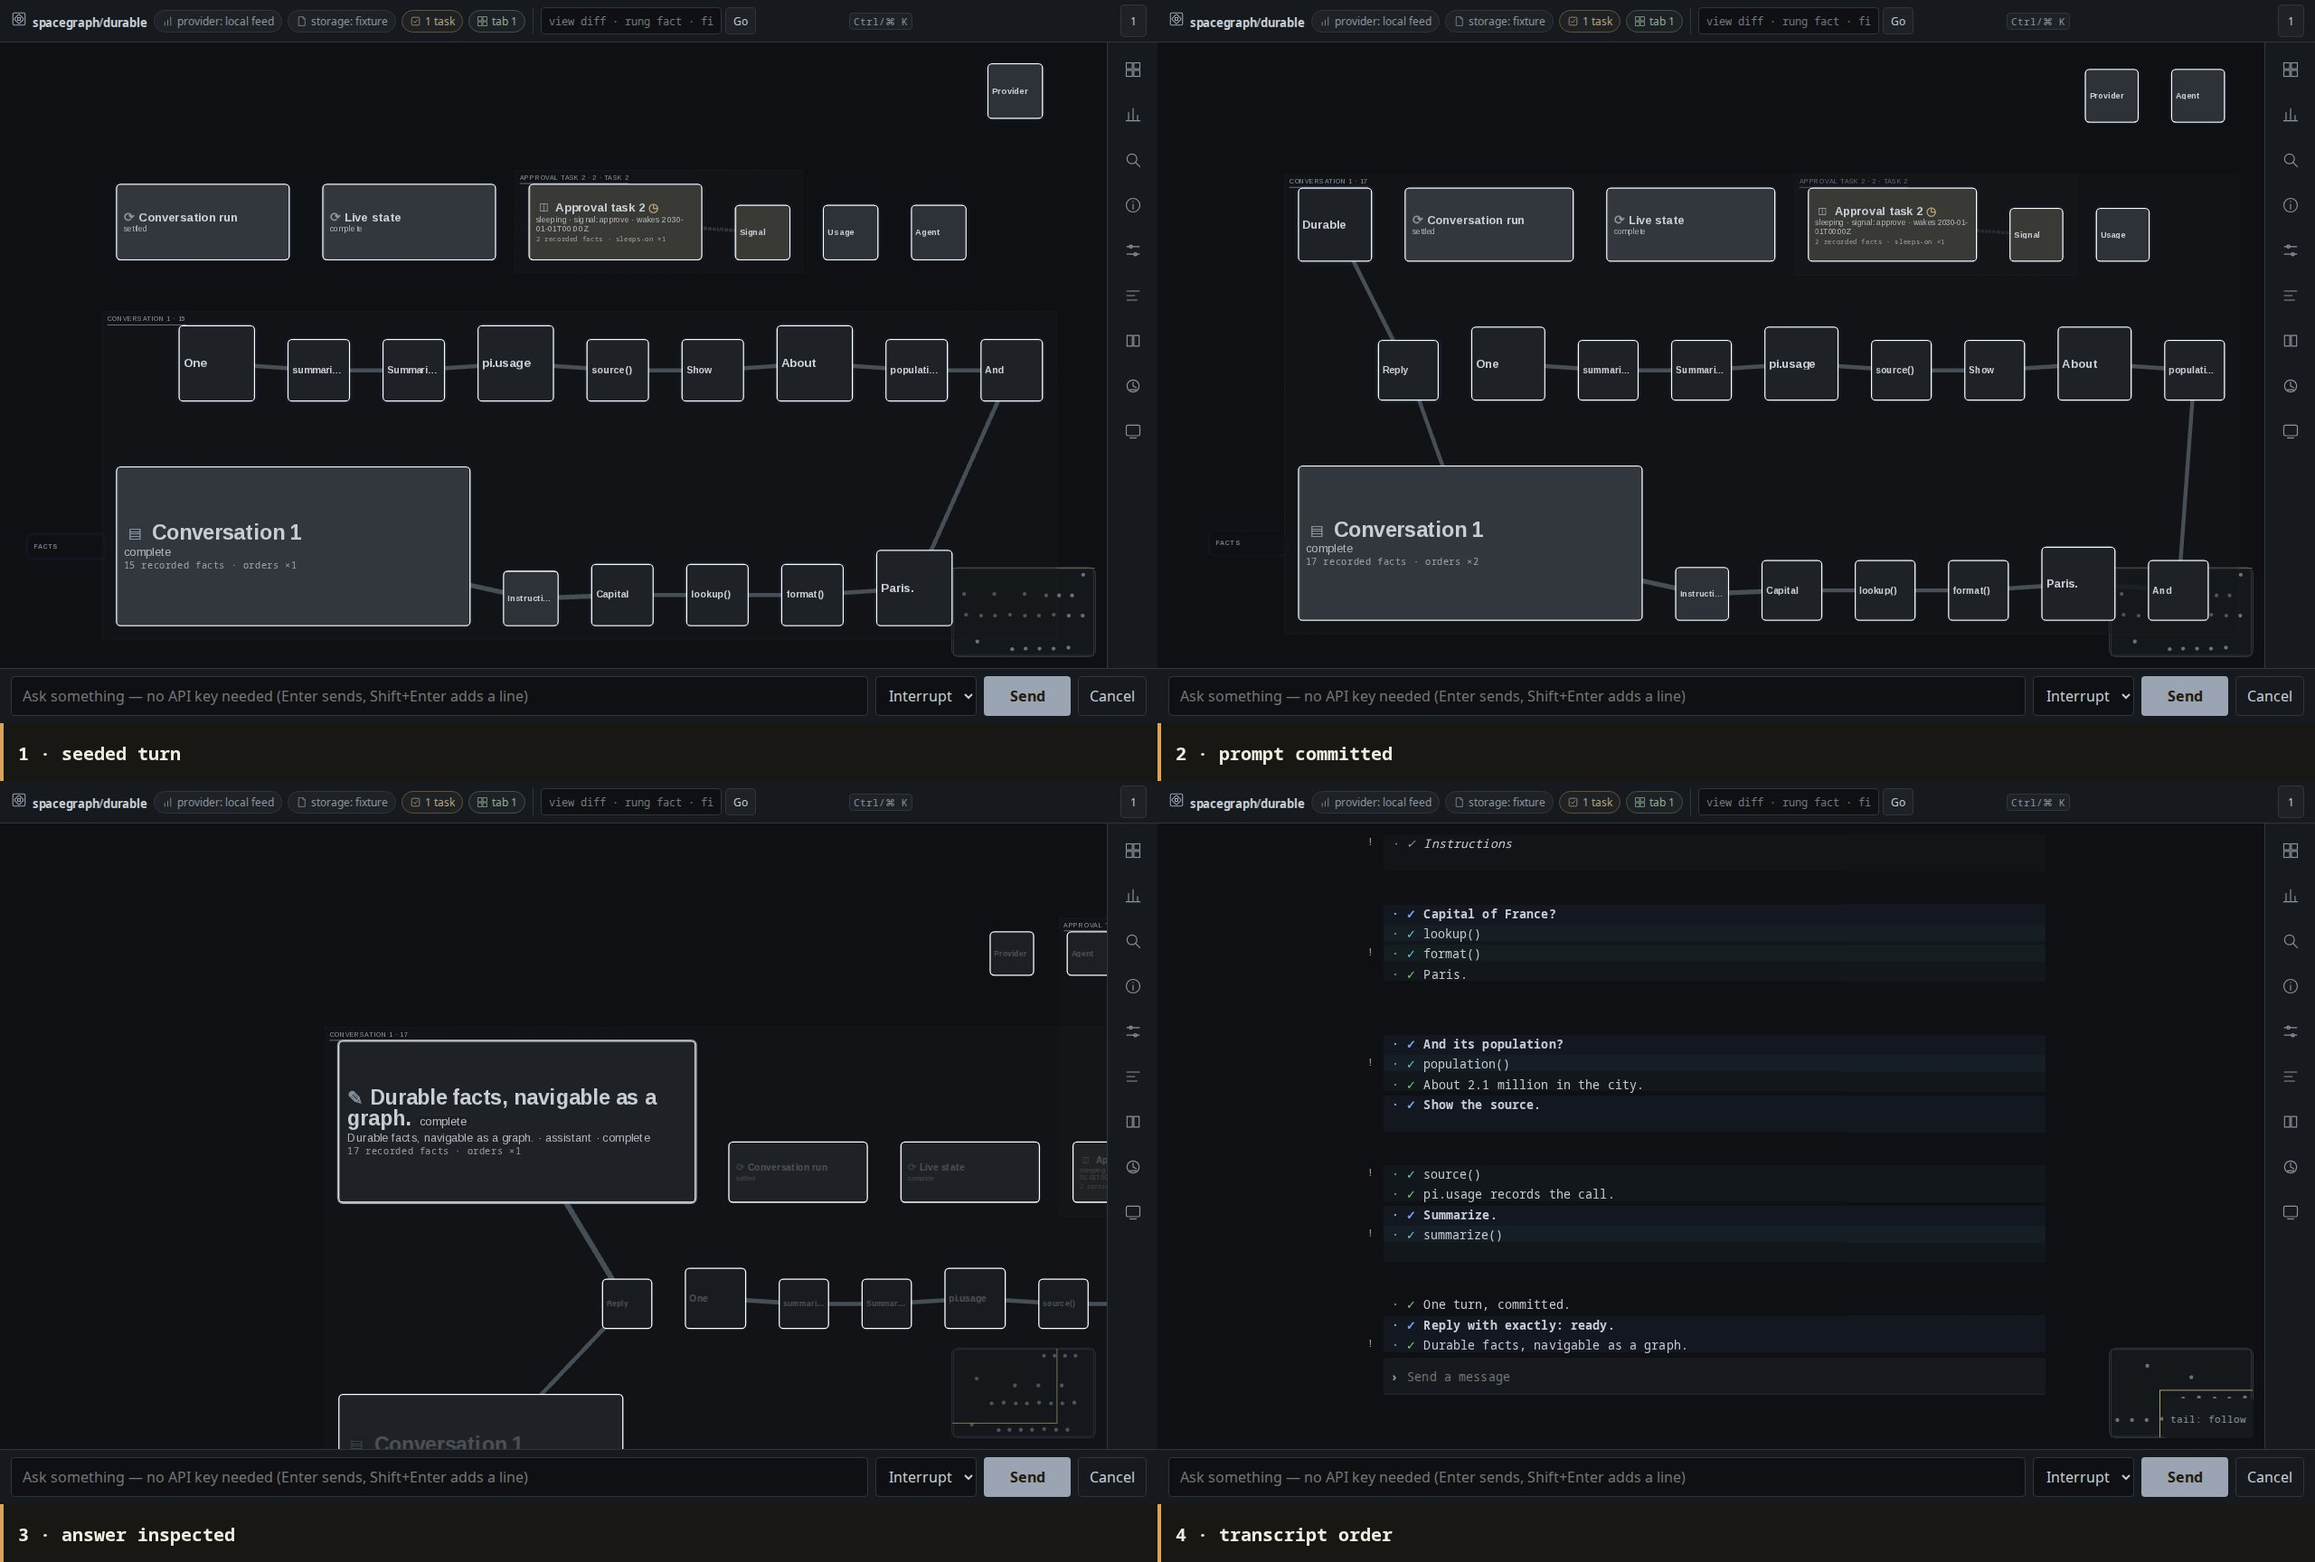
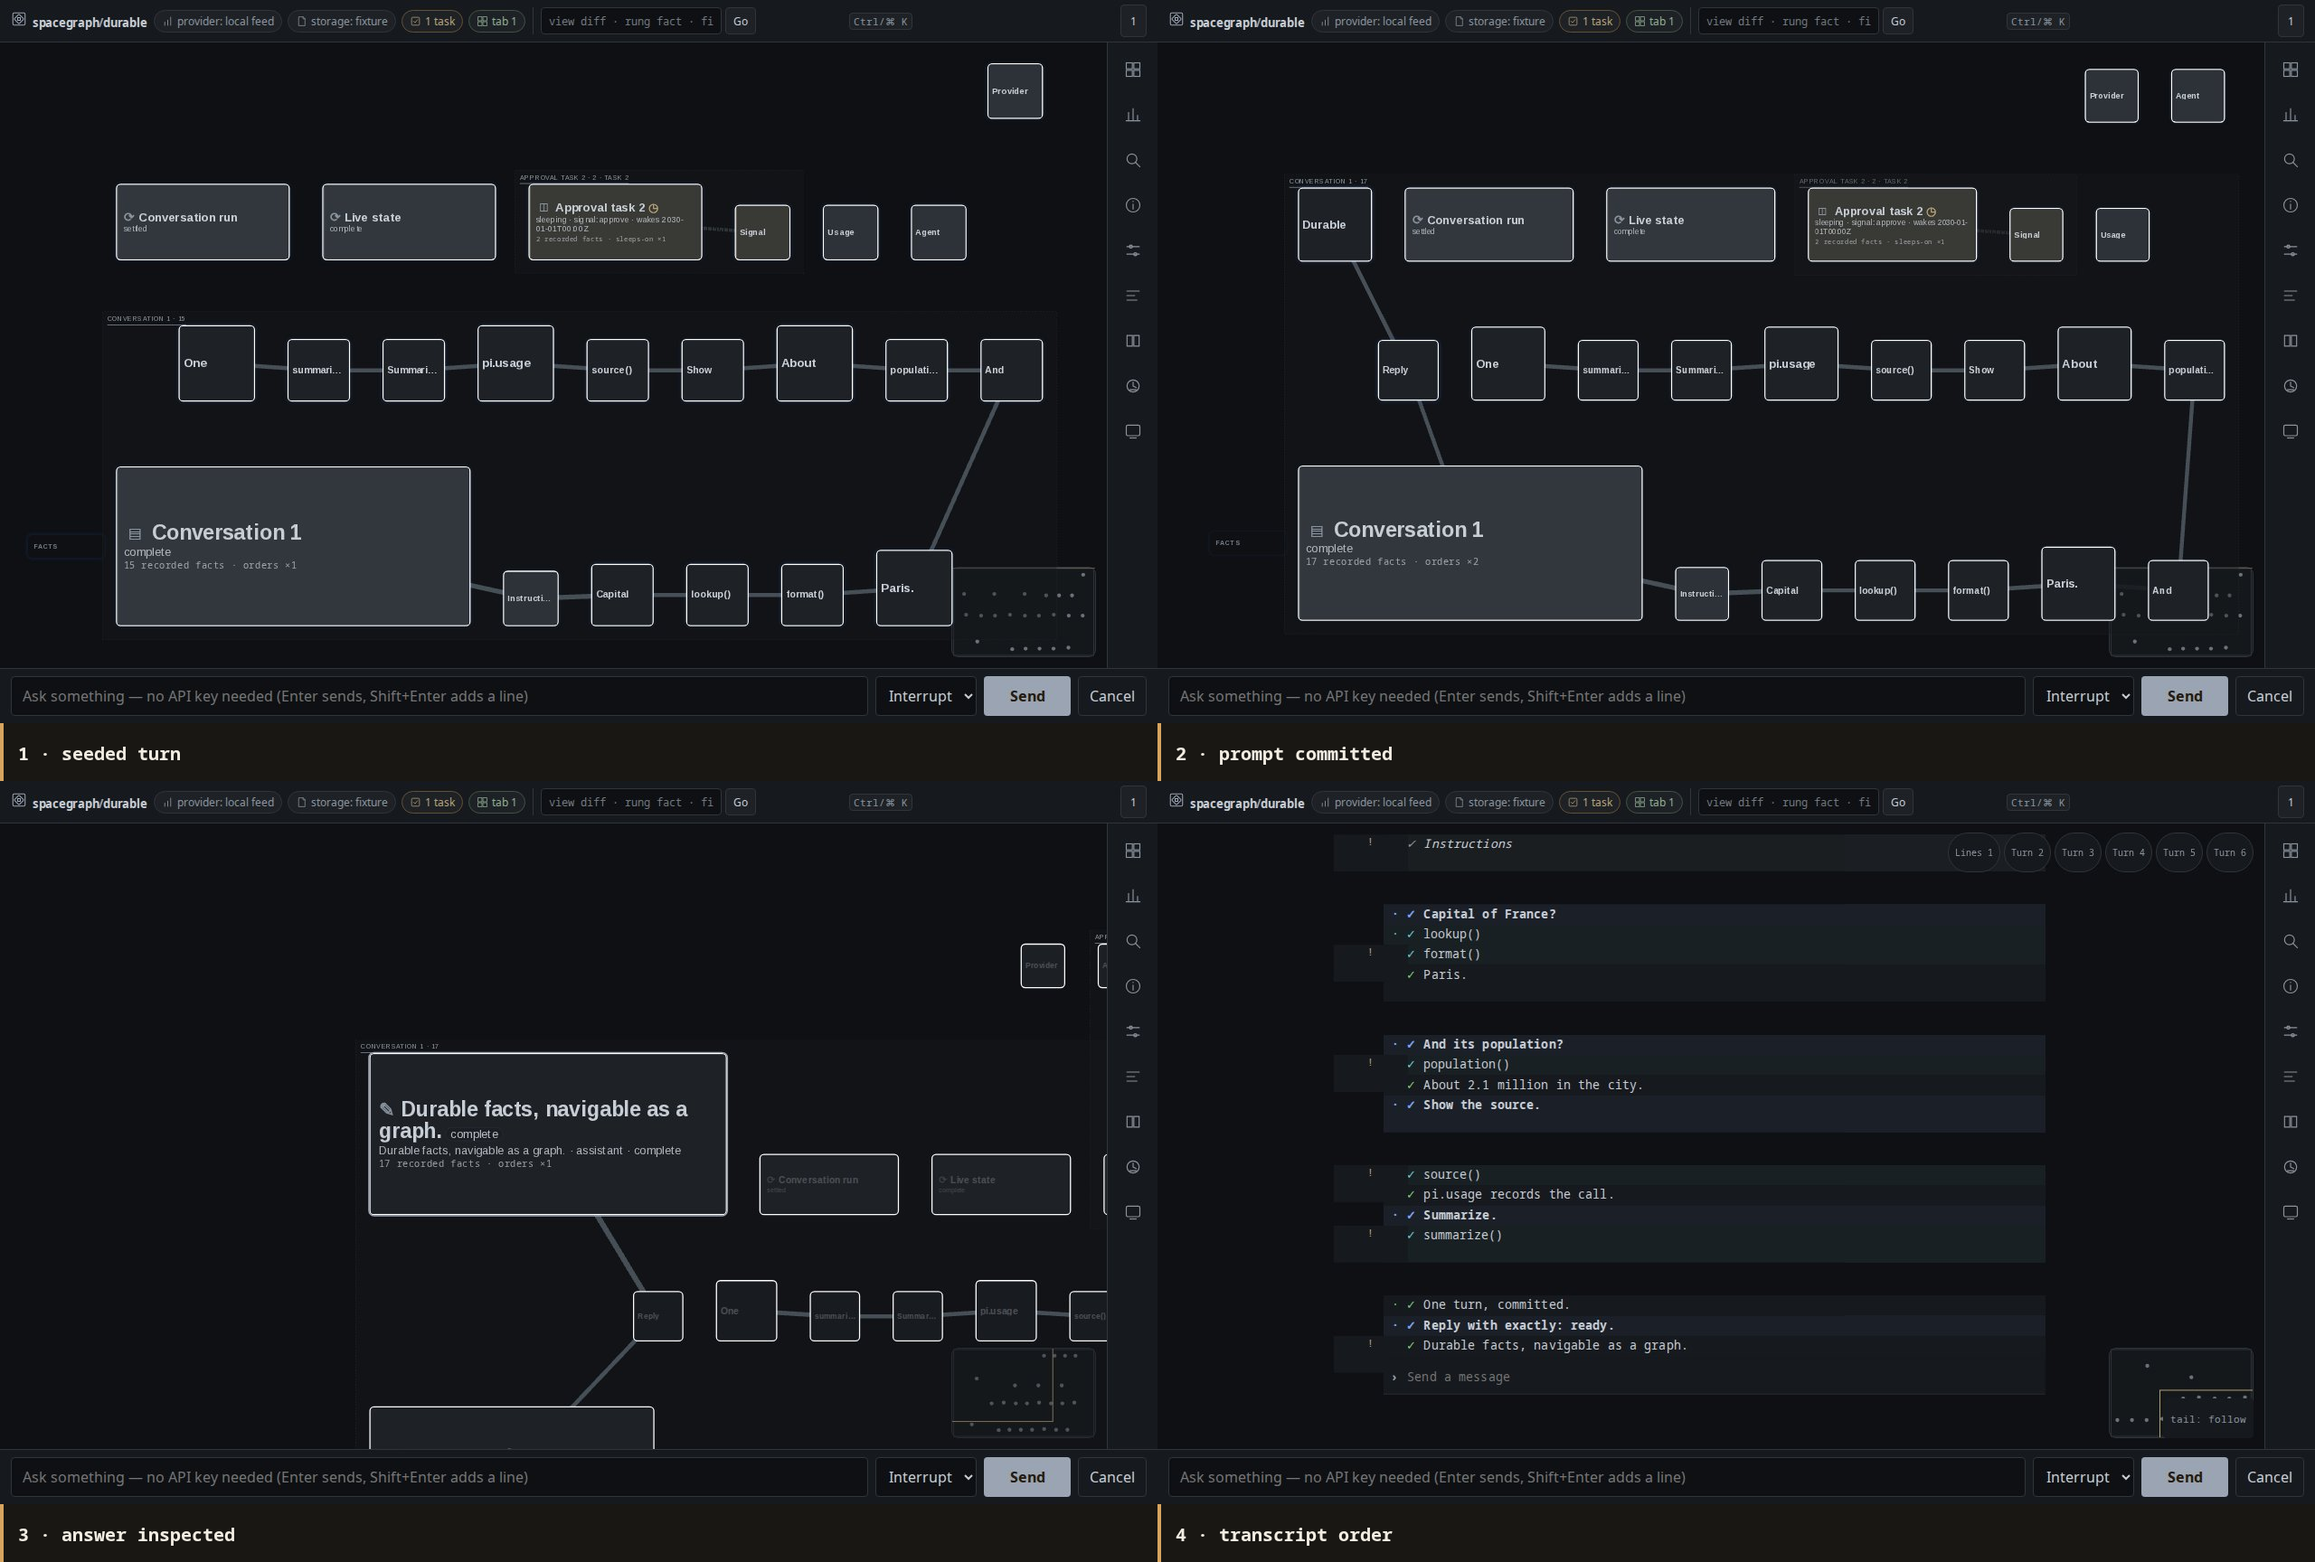
feat(terminal): complete reading and keyboard accessibility parity
Mount the console reading lens with arrow navigation and backlinks, keep full text in the assistive mirror at every fidelity band, and list graph, fidelity and keyboard grammar in help.

Changed region(s): [[0.125, 0.6562, 0.4688, 0.9062], [0.4375, 0.5938, 0.4688, 0.625]]

diff --git a/app/pi-durable/src/host.ts b/app/pi-durable/src/host.ts
@@ -51,7 +51,6 @@ import {
 } from 'spacegraphjs/widgets';
 import {
     mountReading,
-    readingHTML,
     readingOrder,
     type ReadingController,
     type ReadingNode,
@@ -746,6 +745,7 @@ export class DurableHost {
         target: NODES_AREA_DENSITY,
     };
     #readerController: ReadingController | undefined;
+    #consoleReadingController: ReadingController | undefined;
     #terminalController: TerminalController | undefined;
     #terminalCamera: TerminalCameraController | undefined;
     #replay: TerminalReplayHandle | undefined;
@@ -2307,11 +2307,11 @@ export class DurableHost {
     }
 
     consoleHelp(): string {
-        return this.#commands()
+        const commands = this.#commands()
             .list()
             .filter((command) => command.group === 'console' || command.group === 'grammar')
-            .map((command) => `${command.hint ?? `/${command.label}`} — ${command.label}`)
-            .join('\n');
+            .map((command) => `${command.hint ?? `/${command.label}`} — ${command.label}`);
+        return [...commands, 'x — grow a graph from the focused line', 'Escape — collapse graph, detail or reading'].join('\n');
     }
 
     #completeConsole(prefix: string, matches: readonly Command[]): void {
@@ -2663,9 +2663,19 @@ export class DurableHost {
             scope,
         );
         const sections = readingOrder(nodes, []);
-        el('console-reading-body').innerHTML = readingHTML(sections, {
-            title: `Console — ${scope}`,
-        });
+        this.#consoleReadingController?.destroy();
+        this.#consoleReadingController = mountReading(
+            el('console-reading-body'),
+            sections,
+            {
+                title: `Console — ${scope}`,
+                announce: (message) => this.announce(message),
+                onReveal: (id) => {
+                    this.closeConsoleReading();
+                    this.consoleFocus(`line:${id}`);
+                },
+            },
+        );
         el('console-reading').hidden = false;
         this.#openOverlay('reading', el('console-reading'), el<HTMLButtonElement>('console-reading-close'), () =>
             this.closeConsoleReading(),
@@ -2675,6 +2685,8 @@ export class DurableHost {
     }
 
     closeConsoleReading(): void {
+        this.#consoleReadingController?.destroy();
+        this.#consoleReadingController = undefined;
         this.#closeOverlay('reading', el('console-reading'));
     }
 

diff --git a/app/pi-durable/tests/reading-lens.spec.ts b/app/pi-durable/tests/reading-lens.spec.ts
@@ -11,6 +11,37 @@ test('the reading lens opens a safe reading view from the console', async ({ pag
     expect(errors).toEqual([]);
 });
 
+test('console reading sections navigate and reveal their backlinks', async ({ page }) => {
+    const errors = await bootConsole(page);
+    expect(await call<number>(page, 'consoleRead', 'all')).toBeGreaterThan(0);
+    const sections = page.locator('#console-reading-body .reading-section');
+    await expect(sections.first()).toBeVisible();
+    await sections.first().focus();
+    await page.keyboard.press('ArrowDown');
+    await expect(sections.nth(1)).toBeFocused();
+    await sections.nth(1).locator('.reading-backlink').click();
+    await expect(page.locator('#console-reading')).toBeHidden();
+    expect(errors).toEqual([]);
+});
+
+test('the assistive mirror keeps full text at every fidelity band', async ({ page }) => {
+    const errors = await bootConsole(page);
+    for (const band of ['dot', 'glyph', 'card', 'detail']) {
+        await call(page, 'consoleLOD', band);
+        const mirror = await page.locator('#console-a11y [role="listbox"] li').allTextContents();
+        expect(mirror.join(' ')).toContain('Capital of France?');
+    }
+    expect(errors).toEqual([]);
+});
+
+test('help lists graph, fidelity and keyboard grammar', async ({ page }) => {
+    const errors = await bootConsole(page);
+    const help = await call<string>(page, 'consoleHelp');
+    for (const needle of ['/grow', '/embed', '/lod', '/graph', 'x —', 'Escape —'])
+        expect(help).toContain(needle);
+    expect(errors).toEqual([]);
+});
+
 test('profiles replace scattered presentation flags', async ({ page }) => {
     const errors = await bootConsole(page);
     const profiles = await call<readonly { id: string }[]>(page, 'consoleProfiles');

diff --git a/src/terminal.ts b/src/terminal.ts
@@ -863,7 +863,7 @@ export const terminalConsoleCommands = (
         entry('copy', 'copy', '/copy', ['clipboard'], gate(gates.selection, 'Select lines first')),
         entry('export', 'export', '/export [markdown|json]', ['save'], gate(gates.lines, 'No console lines')),
         entry('search', 'search', '/search <text>', ['find']),
-        entry('filter', 'filter', '/filter <kind>', ['scope']),
+        entry('filter', 'filter', '/filter <facets>', ['scope']),
         entry('read', 'read', '/read [line]', ['document'], gate(gates.lines, 'No console lines')),
         entry('zoom', 'zoom', '/zoom <landmark>', ['scale']),
         entry('pin.live', 'pin live', '/pin live', ['follow']),
@@ -872,7 +872,7 @@ export const terminalConsoleCommands = (
         entry(
             'profile',
             'profile',
-            '/profile <logs|presentation|high-contrast|big-text|fractal>',
+            '/profile <logs|presentation|high-contrast|big-text|fractal|documents>',
             ['theme'],
         ),
         entry('asOf', 'as of', '/as of <seq>', ['asof', 'history']),
@@ -880,6 +880,7 @@ export const terminalConsoleCommands = (
         entry('why', 'why', '/why', ['provenance']),
         entry('monitor', 'monitor', '/monitor', ['sidecar', 'logtail']),
         entry('lod', 'lod', '/lod <dot|glyph|card|detail|auto>', ['fidelity', 'density']),
+        entry('graph', 'graph', '/graph [on|off]', ['edges', 'frames']),
         entry('grow', 'grow', '/grow [line]', ['graph', 'subgraph', 'expand']),
         entry('embed', 'embed', '/embed [on|off]', ['node', 'graph', 'console']),
         entry('autoZoom', 'auto zoom', '/auto zoom', ['regions', 'flyTo']),

diff --git a/test/terminal.test.ts b/test/terminal.test.ts
@@ -1155,7 +1155,7 @@ describe('console command catalog', () => {
         expect(commands.list().map((command) => command.id)).toEqual([
             'copy', 'export', 'search', 'filter', 'read', 'zoom',
             'pin.live', 'pin.snapshot',
-            'pin.matches', 'profile', 'asOf', 'fork', 'why', 'monitor', 'lod', 'grow', 'embed',
+            'pin.matches', 'profile', 'asOf', 'fork', 'why', 'monitor', 'lod', 'graph', 'grow', 'embed',
             'autoZoom', 'regions',
             'read.lens',
             'lens.focus', 'bookmark', 'help',
